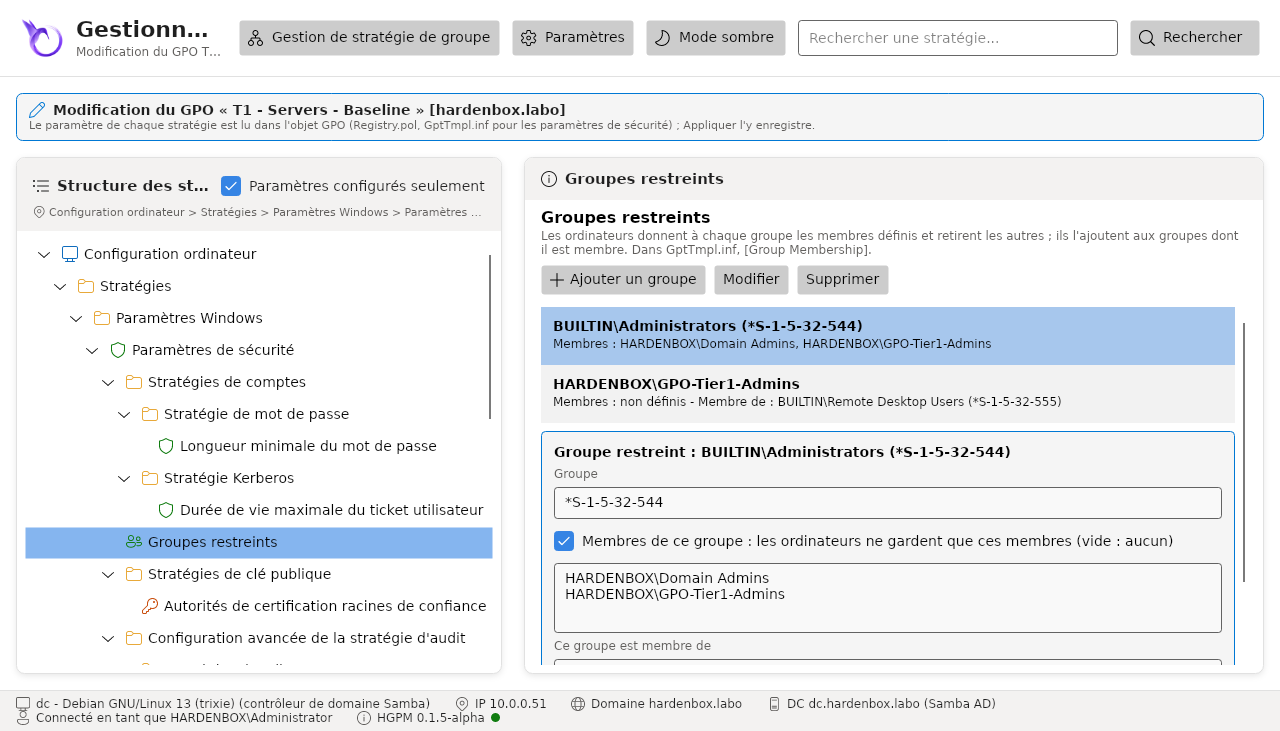
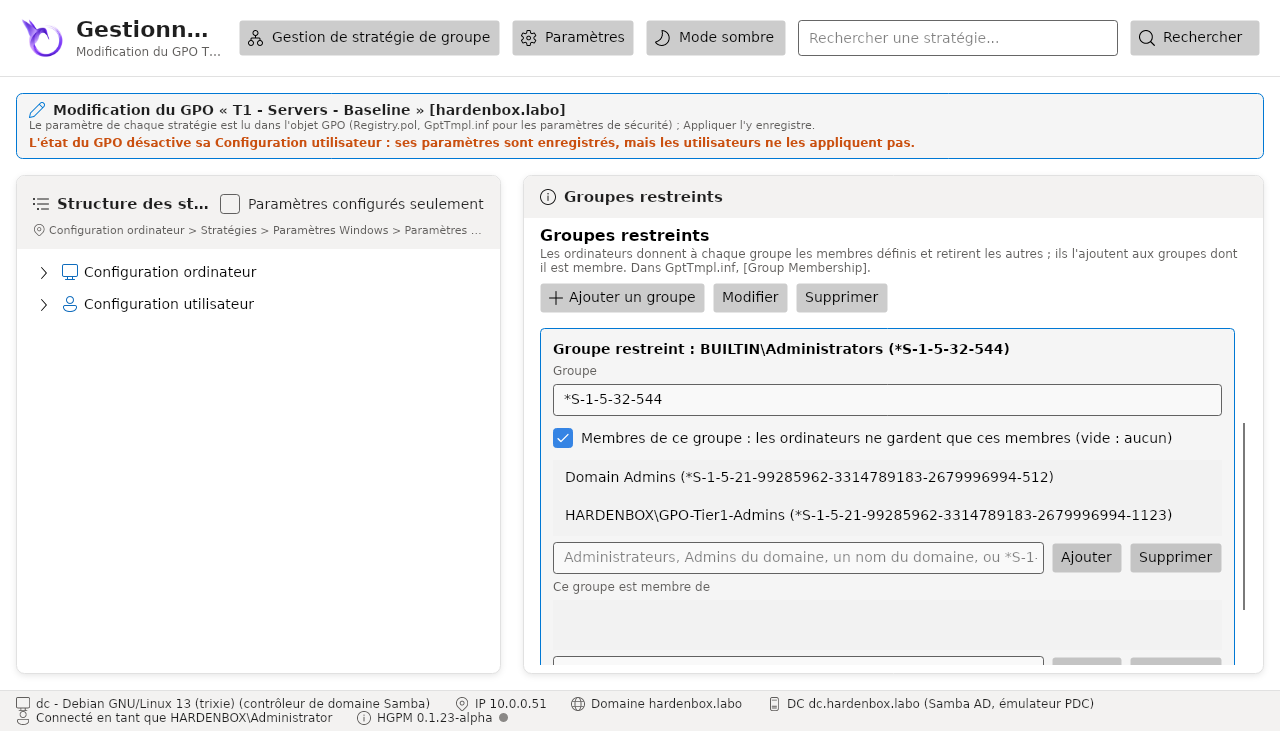
Restricted groups: each list with its box of suggestions, Add (or Enter) and Remove, its accounts by name and SID (HardenSamba/HardenBox#5); a box of accounts stays empty once its account is added

diff --git a/docs/fr/features/policy-editor.md b/docs/fr/features/policy-editor.md
@@ -87,6 +87,11 @@ comme Windows l'écrit), augmente la version ordinateur et déclare l'extension 
   clé `__Members`) ;
 - **Ce groupe est membre de** : les groupes auxquels les ordinateurs l'ajoutent.
 
+Chaque liste montre ses comptes par leur nom et leur SID, comme GPMC. Saisissez un compte dans la
+zone sous la liste ([suggéré pendant la frappe](#accounts-and-sids)), puis **Ajouter** (ou
+Entrée) ; **Supprimer** retire celui qui est sélectionné. Un compte saisi mais pas ajouté empêche
+l'enregistrement, et il est nommé.
+
 **Modifier** et **Supprimer** changent ou retirent un groupe ; un groupe supprimé garde les membres
 qu'il a. L'onglet Paramètres les liste (Membres, Membre de). Vérifié sur un membre Windows : les
 Utilisateurs du Bureau à distance locaux ont reçu exactement les membres définis.
@@ -110,10 +115,9 @@ Partout où l'on saisit un compte, la console fait des suggestions pendant la fr
 
 Les noms qui commencent par ce qui est saisi viennent d'abord. Dans `GptTmpl.inf` (un groupe
 restreint, ses membres, les comptes d'un droit utilisateur), le compte est écrit par son SID,
-`*S-1-5-32-544`, comme GPMC : le même sur chaque ordinateur, quelle que soit sa langue. **Compte à
-ajouter** le met sur une ligne des membres (**Ajouter aux membres**) ou des groupes dont le groupe
-est membre. Dans la délégation, le filtrage de sécurité et l'approbation d'une GPO, le compte est
-écrit par son nom.
+`*S-1-5-32-544`, comme GPMC : le même sur chaque ordinateur, quelle que soit sa langue, et affiché
+avec son nom. Dans un groupe restreint, la zone sous chaque liste y ajoute le compte. Dans la
+délégation, le filtrage de sécurité et l'approbation d'une GPO, le compte est écrit par son nom.
 
 ![Les comptes suggérés pendant la frappe, dans un groupe restreint](../assets/screenshots/85-account-suggestions.fr.png){ width="640" }
 

diff --git a/docs/en/features/policy-editor.md b/docs/en/features/policy-editor.md
@@ -82,6 +82,10 @@ the local Administrators), then:
   `__Members` key);
 - **This group is a member of**: the groups the computers add it to.
 
+Each list shows its accounts by their name and their SID, as GPMC. Type an account in the box below
+the list ([suggested while typing](#accounts-and-sids)), then **Add** (or Enter); **Remove** takes
+the selected one out. An account typed and not added stops the save, and is named.
+
 **Edit** and **Delete** change or remove a group; a deleted group keeps the members it has. The
 Settings tab lists them (Members, Member of). Checked on a Windows member: the local Remote Desktop
 Users received exactly the members defined.
@@ -104,9 +108,9 @@ Wherever an account is typed, the console suggests while typing:
 
 The names that begin with what is typed come first. In `GptTmpl.inf` (a restricted group, its
 members, the accounts of a user right), the account is written as its SID, `*S-1-5-32-544`, as
-GPMC does: the same on every computer, whatever its language. **Account to add** puts it on a line
-of the members (**Add to the members**) or of the groups the group is a member of. In the
-delegation, the security filtering and the approval of a GPO, the account is written by its name.
+GPMC does: the same on every computer, whatever its language, and shown with its name. In a
+restricted group, the box below each list adds the account to it. In the delegation, the security
+filtering and the approval of a GPO, the account is written by its name.
 
 ![The accounts suggested while typing, in a restricted group](../assets/screenshots/85-account-suggestions.png){ width="640" }
 

diff --git a/CHANGELOG.md b/CHANGELOG.md
@@ -5,6 +5,8 @@
 ### Fixed
 
 * History tab: the line of the timeline was not straight, the backups with a label (Approved) a little higher than the others: the nodes are now aligned at the top
+* Restricted groups: an account typed in the list of the members, or of the groups the group is a member of, was suggested nothing (HardenSamba/HardenBox#5); the suggestions were in one box above both lists, little seen. Each list now has its own box below it, with the suggestions, **Add** (or Enter) and **Remove**, as GPMC and the user rights; its accounts are shown by their name and their SID, the names of the accounts of the domain read from it. An account typed and not added stops the save, and is named
+* A box of accounts (a restricted group, a user right, the members of a local group of the preferences) emptied once the account was added got its text back a moment later, from the suggestion picked or the search still running
 
 ## 0.1.23 - alpha
 
